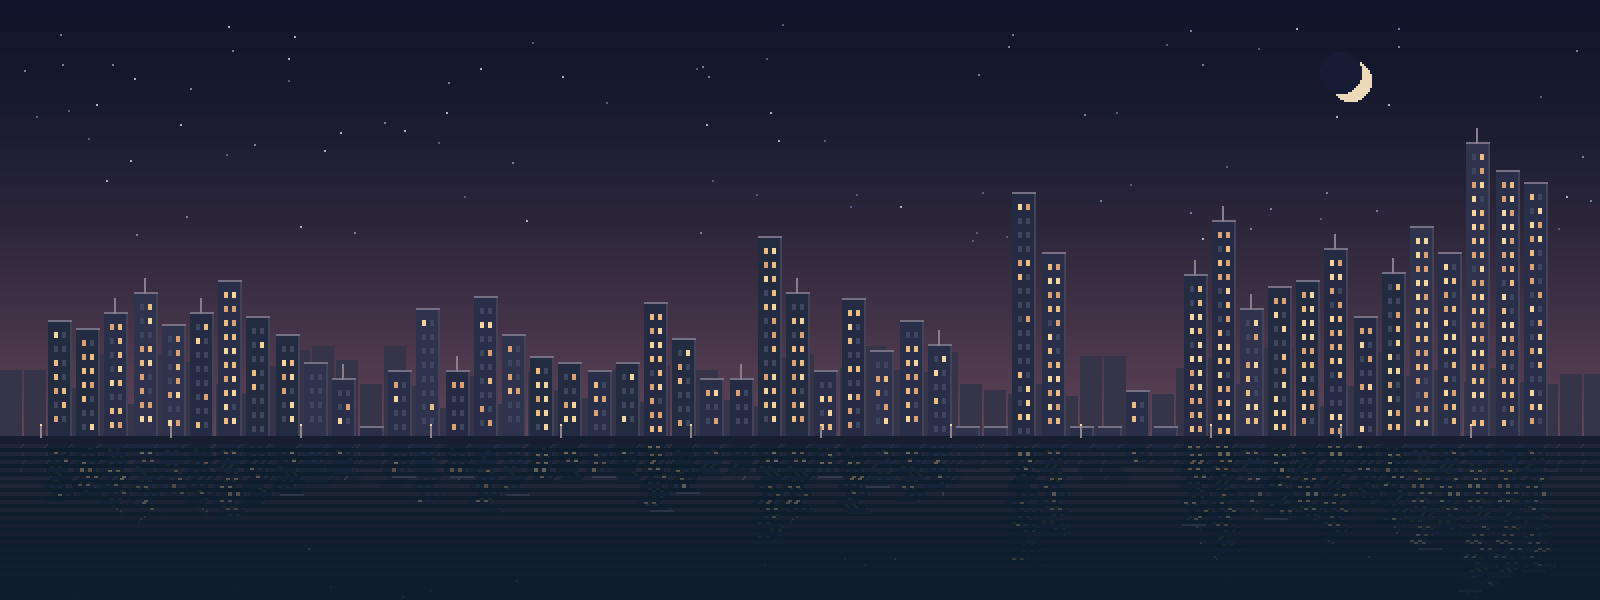
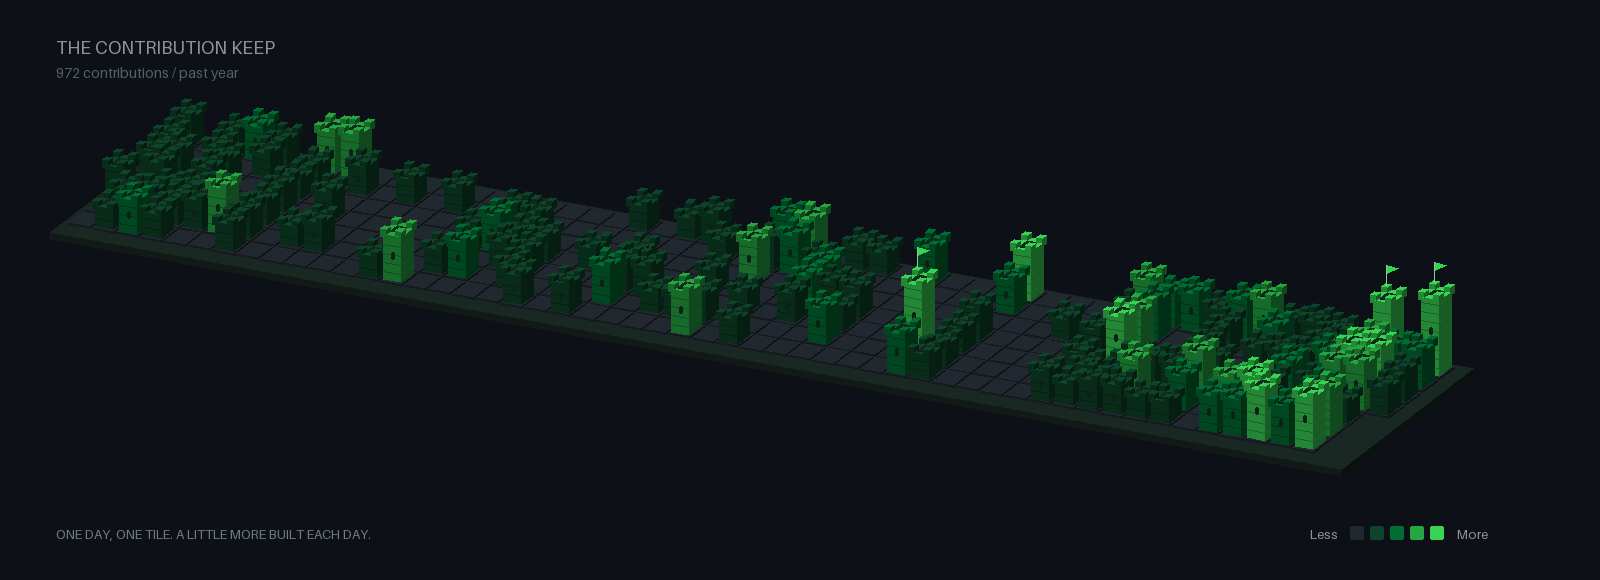
Turn contribution skyline into a medieval keep

diff --git a/scripts/skyline.py b/scripts/skyline.py
@@ -5,7 +5,6 @@ import json
 import math
 import os
 from pathlib import Path
-import random
 import subprocess
 import urllib.request
 
@@ -17,7 +16,7 @@ query($login: String!) {
     contributionsCollection {
       contributionCalendar {
         totalContributions
-        weeks { contributionDays { date contributionCount } }
+        weeks { contributionDays { date weekday contributionCount contributionLevel } }
       }
     }
   }
@@ -53,61 +52,70 @@ def render(data, output):
     weeks = data["weeks"]
     if not weeks:
         raise ValueError("Contribution calendar is empty")
-    totals = [sum(day["contributionCount"] for day in week["contributionDays"]) for week in weeks]
-    width, height, shore = 800, 300, 218
-    image = Image.new("RGB", (width, height))
+    # The calendar keeps GitHub's 53-week / seven-day structure. Every
+    # tower is a real day; no ornamental towers invent contribution data.
+    width, height = 1600, 580
+    image = Image.new("RGB", (width, height), "#0d1117")
     draw = ImageDraw.Draw(image)
-    # A muted violet dusk fades toward a warm horizon.
-    for y in range(shore):
-        t = (y / shore) ** 1.6
-        color = tuple(round(a + (b - a) * t) for a, b in zip((16, 22, 43), (99, 69, 89)))
-        draw.line((0, y, width, y), fill=color)
-    rng = random.Random(824)
-    for _ in range(90):
-        x, y = rng.randrange(width), rng.randrange(12, 125)
-        draw.point((x, y), fill=rng.choice(["#536079", "#77819a", "#b5aec0"]))
-    draw.ellipse((665, 30, 685, 50), fill="#ecd9ba")
-    draw.ellipse((660, 26, 680, 46), fill="#161c33")
-    # A distant silhouette gives the activity buildings depth.
-    for x in range(0, width, 12):
-        top = shore - rng.randint(14, 45)
-        draw.rectangle((x, top, x + 10, shore), fill="#363449")
-    margin = 24
-    step = (width - 2 * margin) / len(weeks)
-    peak = max(max(totals), 1)
-    for i, (week, total) in enumerate(zip(weeks, totals)):
-        local = random.Random(week["contributionDays"][0]["date"])
-        x = round(margin + i * step)
-        building_width = max(5, int(step) - 3)
-        building_height = 9 + round(138 * math.sqrt(total / peak)) if total else 5
-        top = shore - building_height
-        face = local.choice(["#252b43", "#292e49", "#30334e", "#222b40"])
-        draw.rectangle((x, top, x + building_width, shore), fill=face)
-        draw.line((x, top, x + building_width, top), fill="#777084")
-        draw.line((x + building_width, top + 1, x + building_width, shore), fill="#424359")
-        if total and local.random() > 0.65:
-            draw.line((x + building_width // 2, top - 7, x + building_width // 2, top), fill="#8a7e8c")
-        active_days = sum(day["contributionCount"] > 0 for day in week["contributionDays"])
-        for wy in range(top + 6, shore - 3, 7):
-            for wx in range(x + 3, x + building_width - 1, 4):
-                lit = total > 0 and local.random() < 0.2 + active_days / 10
-                color = local.choice(["#edbc82", "#dba176", "#f3d5a2"]) if lit else "#41465f"
-                draw.rectangle((wx, wy, wx + 1, wy + 2), fill=color)
-    # Broken, dimmed reflections retain the actual building geometry.
-    for y in range(shore + 4, height):
-        depth = y - shore - 4
-        source_y = max(0, shore - 1 - depth * 2)
-        shift = round(math.sin(depth * 0.7) * (1 + depth / 18))
-        for x in range(width):
-            source = image.getpixel((max(0, min(width - 1, x + shift)), source_y))
-            blend = max(0.04, 0.43 - depth / 220) if depth % 4 < 2 else 0.06
-            image.putpixel((x, y), tuple(round(base + (c - base) * blend) for base, c in zip((13, 28, 43), source)))
-    draw.rectangle((0, shore, width, shore + 3), fill="#171e30")
-    for x in range(20, width, 65):
-        draw.line((x, shore - 5, x, shore), fill="#90858a")
-        draw.point((x, shore - 6), fill="#f6d4a3")
+    greens = ["#212830", "#0e4429", "#006d32", "#26a641", "#39d353"]
+    levels = {name: i for i, name in enumerate([
+        "NONE", "FIRST_QUARTILE", "SECOND_QUARTILE", "THIRD_QUARTILE", "FOURTH_QUARTILE"
+    ])}
+
+    def point(u, v, z=0):
+        return (round(185 + u * 24 - v * 17), round(135 + u * 4.4 + v * 13 - z))
+
+    def shade(color, factor):
+        return tuple(round(int(color[i:i + 2], 16) * factor) for i in (1, 3, 5))
+
+    def block(u, v, w, d, base, h, color):
+        a, b, c, e = [point(x, y, base + h) for x, y in
+                       [(u, v), (u + w, v), (u + w, v + d), (u, v + d)]]
+        bottom_b, bottom_c, bottom_e = [point(x, y, base) for x, y in
+                                       [(u + w, v), (u + w, v + d), (u, v + d)]]
+        draw.polygon([e, c, bottom_c, bottom_e], fill=shade(color, 0.64))
+        draw.polygon([b, c, bottom_c, bottom_b], fill=shade(color, 0.43))
+        draw.polygon([a, b, c, e], fill=color)
+
+    draw.text((56, 36), "THE CONTRIBUTION KEEP", fill="#8b949e", font_size=18)
+    draw.text((56, 64), f"{data['totalContributions']:,} contributions / past year", fill="#52616a", font_size=14)
+    block(-0.4, -0.4, len(weeks) + 0.8, 7.8, -10, 7, "#1a2824")
+    days = [(i, day["weekday"], day) for i, week in enumerate(weeks) for day in week["contributionDays"]]
+    peak = max([day["contributionCount"] for _, _, day in days] + [1])
+    # Draw back to front so near towers correctly obscure distant ones.
+    for u, v, day in sorted(days, key=lambda item: (item[0] + item[1], item[0])):
+        count = day["contributionCount"]
+        level = levels[day["contributionLevel"]]
+        color = greens[level]
+        block(u, v, 0.88, 0.88, 0, 2, greens[0])
+        if not count:
+            continue
+        h = 10 + round(64 * math.sqrt(count / peak))
+        block(u + 0.07, v + 0.07, 0.74, 0.74, 2, h, color)
+        # Thin masonry courses on both visible stone faces.
+        for z in range(10, h, 9):
+            draw.line([point(u + 0.07, v + 0.81, z), point(u + 0.81, v + 0.81, z),
+                       point(u + 0.81, v + 0.07, z)], fill=shade(color, 0.47), width=1)
+        # Overhanging parapet and four raised corner merlons.
+        block(u, v, 0.88, 0.88, h + 2, 3, color)
+        block(u + 0.22, v + 0.22, 0.44, 0.44, h + 5, 0, "#102b1d")
+        for du, dv in [(0, 0), (0.64, 0), (0, 0.64), (0.64, 0.64)]:
+            block(u + du, v + dv, 0.24, 0.24, h + 5, 5, color)
+        if h > 25:
+            x, y = point(u + 0.44, v + 0.82, h * 0.62)
+            draw.rounded_rectangle((x - 1, y - 4, x + 2, y + 3), radius=2, fill="#0d2118")
+        if level == 4 and count >= peak * 0.55:
+            x, y = point(u + 0.1, v + 0.1, h + 10)
+            draw.line((x, y, x, y - 20), fill="#83c99a", width=1)
+            draw.polygon([(x + 1, y - 20), (x + 12, y - 17), (x + 1, y - 12)], fill="#39d353")
+    draw.text((56, 526), "ONE DAY, ONE TILE. A LITTLE MORE BUILT EACH DAY.", fill="#6e7c76", font_size=13)
+    draw.text((1310, 526), "Less", fill="#8b949e", font_size=13)
+    for i, color in enumerate(greens):
+        x = 1350 + i * 20
+        draw.rounded_rectangle((x, 526, x + 13, 539), radius=2, fill=color)
+    draw.text((1457, 526), "More", fill="#8b949e", font_size=13)
     output.parent.mkdir(parents=True, exist_ok=True)
-    image.resize((1600, 600), Image.Resampling.NEAREST).save(output, optimize=True)
+    image.save(output, optimize=True)
 
 
 if __name__ == "__main__":

diff --git a/README.md b/README.md
@@ -2,6 +2,6 @@
 
 [amritesh.xyz](https://amritesh.xyz) · Australia
 
-![A pixel-art skyline of my GitHub contributions, with warm windows above a quiet waterfront.](assets/skyline.png)
+![The Contribution Keep: an isometric medieval fortress built from my GitHub activity, with green crenellated towers for active days.](assets/skyline.png)
 
-<sub>A year of building, by the water. Each building represents a week of GitHub activity; height reflects contributions. Updated daily.</sub>
+<sub>A little more built each day. Each tile is a day; greener, taller towers mean more contributions. Updated daily.</sub>
